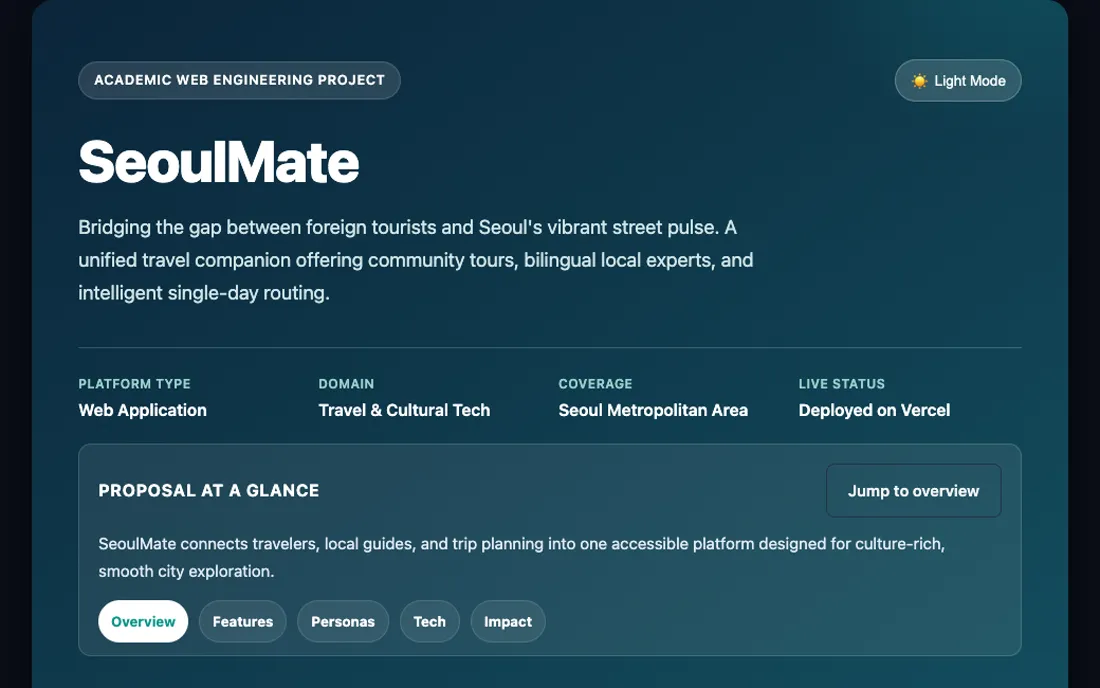
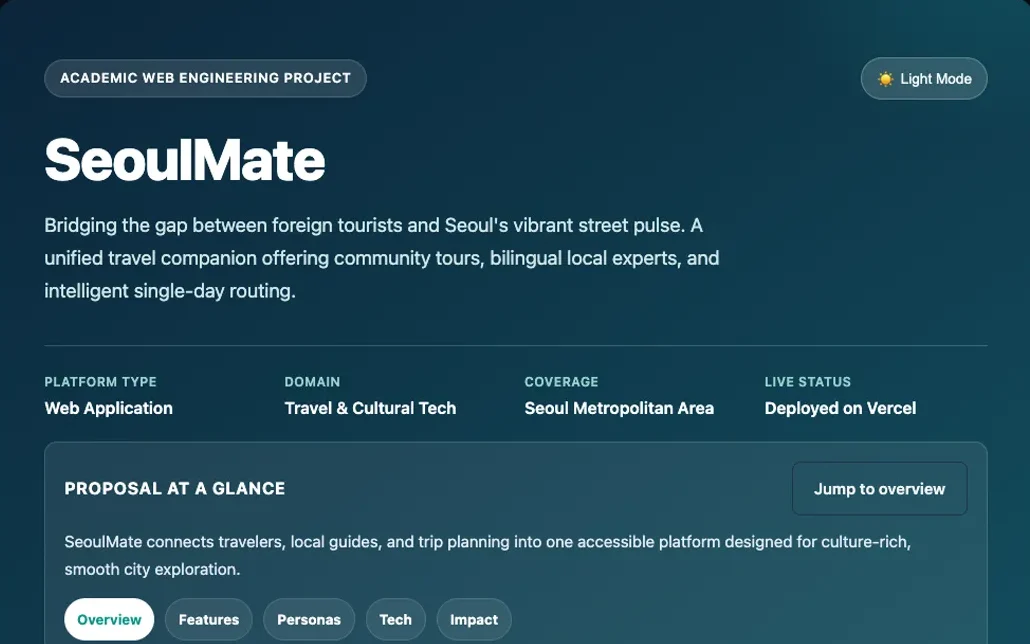
feat: add cover opening and hand-drawn writing animations

diff --git a/css/style.css b/css/style.css
@@ -223,8 +223,11 @@ a { color: inherit; text-decoration-thickness: 2px; text-underline-offset: 0.3em
   width: 1.1rem;
   height: 1.1rem;
   border: 2px solid var(--ink);
-  background: linear-gradient(135deg, transparent 44%, var(--ink) 44%, var(--ink) 56%, transparent 56%);
+  background: url("../assets/tick.svg") center / 130% no-repeat;
 }
+
+.learned--journey strong { display: inline-block; min-width: 5.5rem; font: 700 1rem/1 var(--label); }
+.learned li.is-todo::before { background: none; }
 
 .note-links { display: flex; flex-wrap: wrap; gap: 0.75rem 2rem; align-items: center; }
 
@@ -303,12 +306,14 @@ a { color: inherit; text-decoration-thickness: 2px; text-underline-offset: 0.3em
   background: var(--desk);
 }
 
+/* Isolated, or a lower sheet's links and gutter shadow would paint through the sheets above it. */
 .is-book .page {
   position: absolute;
   top: 0;
   bottom: 0;
   width: 50%;
   padding: 3.5rem 4rem;
+  isolation: isolate;
 }
 .is-book .stage > .page--left { left: 0; }
 .is-book .stage > .page--right { left: 50%; }
@@ -341,7 +346,7 @@ a { color: inherit; text-decoration-thickness: 2px; text-underline-offset: 0.3em
   z-index: 5;
   background:
     linear-gradient(rgb(29 27 53 / calc(var(--bend, 0) * 0.2)) 0 0),
-    linear-gradient(to var(--gutter-side), rgb(29 27 53 / 0.2), transparent 11%);
+    linear-gradient(to var(--gutter-side), rgb(29 27 53 / 0.17), rgb(29 27 53 / 0.05) 3%, transparent 9%);
   pointer-events: none;
 }
 .is-book .page--left { --gutter-side: left; }
@@ -354,9 +359,9 @@ a { color: inherit; text-decoration-thickness: 2px; text-underline-offset: 0.3em
   bottom: 0;
   left: 50%;
   display: block;
-  width: 2px;
-  background: repeating-linear-gradient(transparent 0 6rem, var(--thread) 6rem 11rem, transparent 11rem 14rem);
-  filter: drop-shadow(1px 0 0 rgb(29 27 53 / 0.3));
+  width: 1.5px;
+  background: repeating-linear-gradient(transparent 0 5rem, var(--thread) 5rem 10rem, transparent 10rem 15rem);
+  filter: drop-shadow(1px 0 0 rgb(29 27 53 / 0.25));
   translate: -50% 0;
   pointer-events: none;
 }
@@ -413,9 +418,122 @@ a { color: inherit; text-decoration-thickness: 2px; text-underline-offset: 0.3em
 .is-book .skills { gap: 2.5rem; }
 
 .is-book .page--plate { justify-content: center; }
-.is-book .tag--note { font-size: 3rem; margin-bottom: 3rem; }
+
+/* Three-rem rules with text set to the same step, so every written line lands on a printed one. */
+.is-book .page--note { padding-top: 3.25rem; background-size: 100% 3rem; background-position: 0 0.15rem; font-size: 1.5rem; line-height: 3rem; }
+.is-book .note-head { margin-bottom: 2.5rem; font-size: 1.125rem; line-height: 2rem; }
+.is-book .tag--note { margin-bottom: 3rem; font-size: 3.5rem; }
+.is-book .learned { margin: 3rem 0; }
+.is-book .btn { padding: 0.65rem 1.75rem; font-size: 1.125rem; }
+.is-book .learned--journey { margin: 4rem 0 0; font-size: 1.25rem; line-height: 2.5rem; }
 
 .is-book .tag--connect { position: absolute; top: 15rem; left: 3.5rem; font-size: 4.25rem; }
 .is-book .closing { position: absolute; top: 28rem; left: 5rem; }
 .is-book .link-list { margin-top: 14rem; }
 .is-book .colophon { position: absolute; bottom: 7rem; }
+
+.stamp--closing { position: absolute; bottom: 7rem; left: 5rem; margin: 0; }
+.is-book .stamp--closing { width: 8rem; height: 8rem; border-width: 4px; font-size: 2.75rem; }
+
+/* Notebook cover */
+
+.cover { display: none; }
+.cover__front, .cover__back { position: absolute; inset: 0; backface-visibility: hidden; }
+
+/* The dark strip is the cloth binding tape every Japanese study notebook has down its spine. */
+.cover__front {
+  display: grid;
+  place-items: center;
+  padding-bottom: 12%;
+  background: linear-gradient(90deg, var(--ink) 0 7%, var(--indigo) 7%);
+  box-shadow: 0 1.5rem 3rem -1rem rgb(29 27 53 / 0.55);
+}
+.cover__back { background: var(--paper); transform: rotateY(180deg); }
+
+.cover__label {
+  display: grid;
+  gap: 0.25rem;
+  width: min(72%, 24rem);
+  padding: 1.5rem 1.75rem;
+  border: var(--line);
+  outline: 2px solid var(--print);
+  background: var(--print);
+  color: var(--ink);
+  font: 400 1rem/1.5rem var(--label);
+}
+.cover__label strong { font: 600 2rem/2.75rem var(--hand); }
+
+.is-opening .cover { display: block; }
+
+.is-opening.is-book .cover {
+  position: absolute;
+  z-index: 250;
+  inset: 0 0 0 50%;
+  transform-origin: left center;
+  transform-style: preserve-3d;
+  animation: cover-open 1.5s cubic-bezier(0.65, 0, 0.2, 1) 0.5s forwards;
+}
+/* A closed book lies in the middle of the desk, then slides right as its cover swings open. */
+.is-opening.is-book .stage { animation: book-settle 1.5s cubic-bezier(0.65, 0, 0.2, 1) 0.5s backwards; }
+.is-opening.is-book .stage > .page--left,
+.is-opening.is-book .spine,
+.is-opening.is-book .tabs { animation: appear 0.3s linear 1.9s backwards; }
+
+html:not(.is-book).is-opening .cover {
+  position: fixed;
+  z-index: 500;
+  inset: 0;
+  transform-origin: left center;
+  animation: cover-lift 1.1s cubic-bezier(0.65, 0, 0.2, 1) 0.45s forwards;
+}
+
+@keyframes cover-open { to { transform: rotateY(-180deg); } }
+@keyframes book-settle { from { transform: translateX(-25%); } }
+@keyframes appear { from { opacity: 0; } }
+@keyframes cover-lift {
+  70% { opacity: 1; }
+  to { opacity: 0; transform: perspective(90rem) rotateY(-100deg); }
+}
+
+/* Writing marks: only ever hidden once motion is confirmed, then drawn as a spread comes to rest. */
+
+.has-motion .draw { stroke-dasharray: 1; stroke-dashoffset: 1; }
+.is-open .draw { stroke-dashoffset: 0; transition: stroke-dashoffset 0.9s var(--settle); }
+.is-open .draw--late { transition-delay: 0.75s; transition-duration: 0.3s; }
+
+.has-motion .skills mark { background-size: 0 100%; }
+.is-open .skills mark { background-size: 100% 100%; transition: background-size 0.6s var(--settle); }
+.is-open .skills__group:nth-child(2) mark { transition-delay: 0.15s; }
+.is-open .skills__group:nth-child(3) mark { transition-delay: 0.3s; }
+.is-open .skills__group:nth-child(4) mark { transition-delay: 0.45s; }
+
+.has-motion .stamp { opacity: 0; }
+.is-open .stamp { animation: stamp-down 0.42s var(--settle) 0.35s forwards; }
+
+.has-motion .tag--name, .has-motion .tag--surname, .has-motion .print--portrait { opacity: 0; }
+.is-open .tag--name { animation: slap-left 0.5s var(--settle) 0.25s forwards; }
+.is-open .print--portrait { animation: photo-drop 0.7s var(--settle) forwards; }
+.is-open .tag--surname { animation: slap-right 0.5s var(--settle) 0.5s forwards; }
+
+/* The first page lifts once on its own, so nobody has to be told it can turn. */
+.is-book .leaf:has(.page--photo.is-open) { animation: page-peek 1.3s ease-in-out 2.1s; }
+
+@keyframes stamp-down {
+  from { opacity: 0; scale: 1.8; }
+  to { opacity: 0.92; scale: 1; }
+}
+@keyframes slap-left {
+  from { opacity: 0; scale: 1.25; rotate: -14deg; }
+  to { opacity: 1; scale: 1; rotate: -7deg; }
+}
+@keyframes slap-right {
+  from { opacity: 0; scale: 1.25; rotate: 14deg; }
+  to { opacity: 1; scale: 1; rotate: 7deg; }
+}
+@keyframes photo-drop {
+  from { opacity: 0; translate: 0 -1.5rem; rotate: -2deg; }
+  to { opacity: 1; translate: 0 0; rotate: 1deg; }
+}
+@keyframes page-peek {
+  50% { --peek: 9deg; }
+}

diff --git a/index.html b/index.html
@@ -6,13 +6,16 @@
   <title>Sabhyata Chhetri — Notebook Portfolio</title>
   <meta name="description" content="Sabhyata Chhetri is a Computer Science student at Gachon University. This notebook holds her bio, skills and web programming projects.">
   <meta name="theme-color" content="#dddcd1">
-  <link rel="preload" href="assets/fonts/klee-one-400.woff2" as="font" type="font/woff2" crossorigin>
-  <link rel="preload" href="assets/fonts/m-plus-1-code-700.woff2" as="font" type="font/woff2" crossorigin>
   <link rel="stylesheet" href="css/style.css">
   <script>
     // Runs before first paint so a wide screen never flashes the single-column page.
     window.notebookQuery = matchMedia("(min-width: 60rem) and (min-height: 30rem) and (prefers-reduced-motion: no-preference)");
-    document.documentElement.classList.toggle("is-book", window.notebookQuery.matches);
+    const root = document.documentElement;
+    const canAnimate = !matchMedia("(prefers-reduced-motion: reduce)").matches;
+    root.classList.toggle("is-book", window.notebookQuery.matches);
+    root.classList.toggle("has-motion", canAnimate);
+    // The cover opens once per visit, and never over a link straight to an inner page.
+    root.classList.toggle("is-opening", canAnimate && !location.hash && !sessionStorage.getItem("notebook-opened"));
   </script>
   <script src="js/notebook.js" defer></script>
 </head>
@@ -29,6 +32,17 @@
   <main id="book" class="book">
     <div class="stage">
       <span class="spine" aria-hidden="true"></span>
+
+      <div class="cover" aria-hidden="true">
+        <div class="cover__front">
+          <div class="cover__label">
+            <span>Note Book</span>
+            <strong>Sabhyata Chhetri</strong>
+            <span>2026</span>
+          </div>
+        </div>
+        <div class="cover__back"></div>
+      </div>
 
       <section class="page page--left page--hello" id="hello" data-spread="0">
         <h1 class="tag tag--name">Sabhyata<span class="sr-only"> Chhetri</span></h1>
@@ -86,6 +100,11 @@
               <dd><mark>Problem Solving</mark></dd>
             </div>
           </dl>
+          <ul class="learned learned--journey">
+            <li><strong>Now</strong> Exploring programming, data structures and algorithms</li>
+            <li><strong>Learning</strong> Building interactive websites</li>
+            <li class="is-todo"><strong>Next</strong> Turning small experiments into bigger things</li>
+          </ul>
           <a class="turn" href="#note-seoulmate">Next page</a>
           <span class="folio">4</span>
         </section>
@@ -180,6 +199,7 @@
           <p class="margin-title margin-title--left" lang="ja">連絡</p>
           <h2 class="tag tag--connect">Connect <span class="tag__light">with me</span></h2>
           <p class="closing">Have an idea? Let’s turn it into something interesting.</p>
+          <span class="stamp stamp--closing" lang="ja" aria-hidden="true">完成</span>
           <span class="folio">11</span>
         </section>
       </div>

diff --git a/js/notebook.js b/js/notebook.js
@@ -17,6 +17,13 @@ function setActiveTab(spread) {
   tabs.forEach((tab, index) => tab.setAttribute("aria-current", String(links[index] === current)));
 }
 
+function openSpread(spread) {
+  if (root.classList.contains("is-opening")) return;
+  pages
+    .filter((page) => Number(page.dataset.spread) === spread)
+    .forEach((page) => page.classList.add("is-open"));
+}
+
 function renderBook() {
   const position = scrollY / innerHeight;
 
@@ -30,7 +37,10 @@ function renderBook() {
     leaf.style.setProperty("--z", isTurning ? leaves.length + 1 : turn === 0 ? leaves.length - index : index + 1);
   });
 
-  setActiveTab(Math.round(position));
+  const spread = Math.round(position);
+  setActiveTab(spread);
+  // Marks only draw once the sheet has settled, not while it is still swinging past.
+  if (Math.abs(position - spread) < REST) openSpread(spread);
 }
 
 let frame = 0;
@@ -72,11 +82,29 @@ function syncMode() {
   if (bookQuery.matches) renderBook();
 }
 
+function finishOpening() {
+  sessionStorage.setItem("notebook-opened", "1");
+  root.classList.remove("is-opening");
+  cover.remove();
+  if (root.classList.contains("is-book")) renderBook();
+}
+
+// On the single-column page there is no turning, so marks draw as each page scrolls in.
+const flowObserver = new IntersectionObserver((entries) => {
+  entries
+    .filter((entry) => entry.isIntersecting && !root.classList.contains("is-book") && !root.classList.contains("is-opening"))
+    .forEach((entry) => entry.target.classList.add("is-open"));
+}, { threshold: 0.3 });
+pages.forEach((page) => flowObserver.observe(page));
+
 addEventListener("scroll", onScroll, { passive: true });
 addEventListener("resize", onScroll);
 document.addEventListener("click", followAnchor);
 document.addEventListener("focusin", revealFocusedPage);
 bookQuery.addEventListener("change", syncMode);
+
+const cover = document.querySelector(".cover");
+if (root.classList.contains("is-opening")) cover.addEventListener("animationend", finishOpening, { once: true });
 
 syncMode();
 if (root.classList.contains("is-book") && location.hash) {
